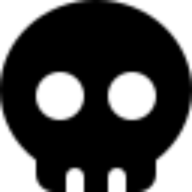
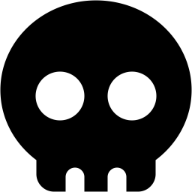
Add PWA support with service worker and web app manifest
- Integrated `@angular/service-worker` for progressive web app functionality.
- Added `manifest.webmanifest` with app metadata and icon definitions for PWA setup.
- Updated `angular.json` to include service worker configuration (`ngsw-config.json`).
- Enhanced `index.html` with noscript warning and reference to the new web manifest.
- Updated and optimized favicon set and related assets for better platform compatibility.
- Included service worker initialization in `app.config.ts` with production check.

Changed region(s): [[0.0, 0.0, 1.0, 1.0], [0.5312, 0.3438, 0.8438, 0.6562], [0.1562, 0.3438, 0.4688, 0.6562]]

diff --git a/src/app/app.config.ts b/src/app/app.config.ts
@@ -1,4 +1,4 @@
-import {ApplicationConfig, Provider, provideZoneChangeDetection} from '@angular/core';
+import {ApplicationConfig, Provider, provideZoneChangeDetection, isDevMode} from '@angular/core';
 import { provideRouter } from '@angular/router';
 import { provideAnimations } from '@angular/platform-browser/animations';
 import { provideToastr } from 'ngx-toastr';
@@ -6,6 +6,7 @@ import { provideToastr } from 'ngx-toastr';
 import { routes } from './app.routes';
 import {provideHttpClient, withInterceptors} from '@angular/common/http';
 import {authInterceptor} from './interceptors/auth.interceptor';
+import { provideServiceWorker } from '@angular/service-worker';
 
 export const appConfig: ApplicationConfig = {
   providers: [
@@ -13,6 +14,9 @@ export const appConfig: ApplicationConfig = {
     provideRouter(routes),
     provideAnimations(),
     provideToastr(),
-    provideHttpClient(withInterceptors([authInterceptor])),
+    provideHttpClient(withInterceptors([authInterceptor])), provideServiceWorker('ngsw-worker.js', {
+            enabled: !isDevMode(),
+            registrationStrategy: 'registerWhenStable:30000'
+          }),
   ]
 };

diff --git a/src/index.html b/src/index.html
@@ -9,8 +9,10 @@
   <link rel="icon" type="image/png" sizes="32x32" href="/favicon-32x32.png">
   <link rel="icon" type="image/png" sizes="16x16" href="/favicon-16x16.png">
   <link rel="manifest" href="/site.webmanifest">
+  <link rel="manifest" href="/manifest.webmanifest">
 </head>
 <body>
   <app-root></app-root>
+  <noscript>Please enable JavaScript to continue using this application.</noscript>
 </body>
 </html>
